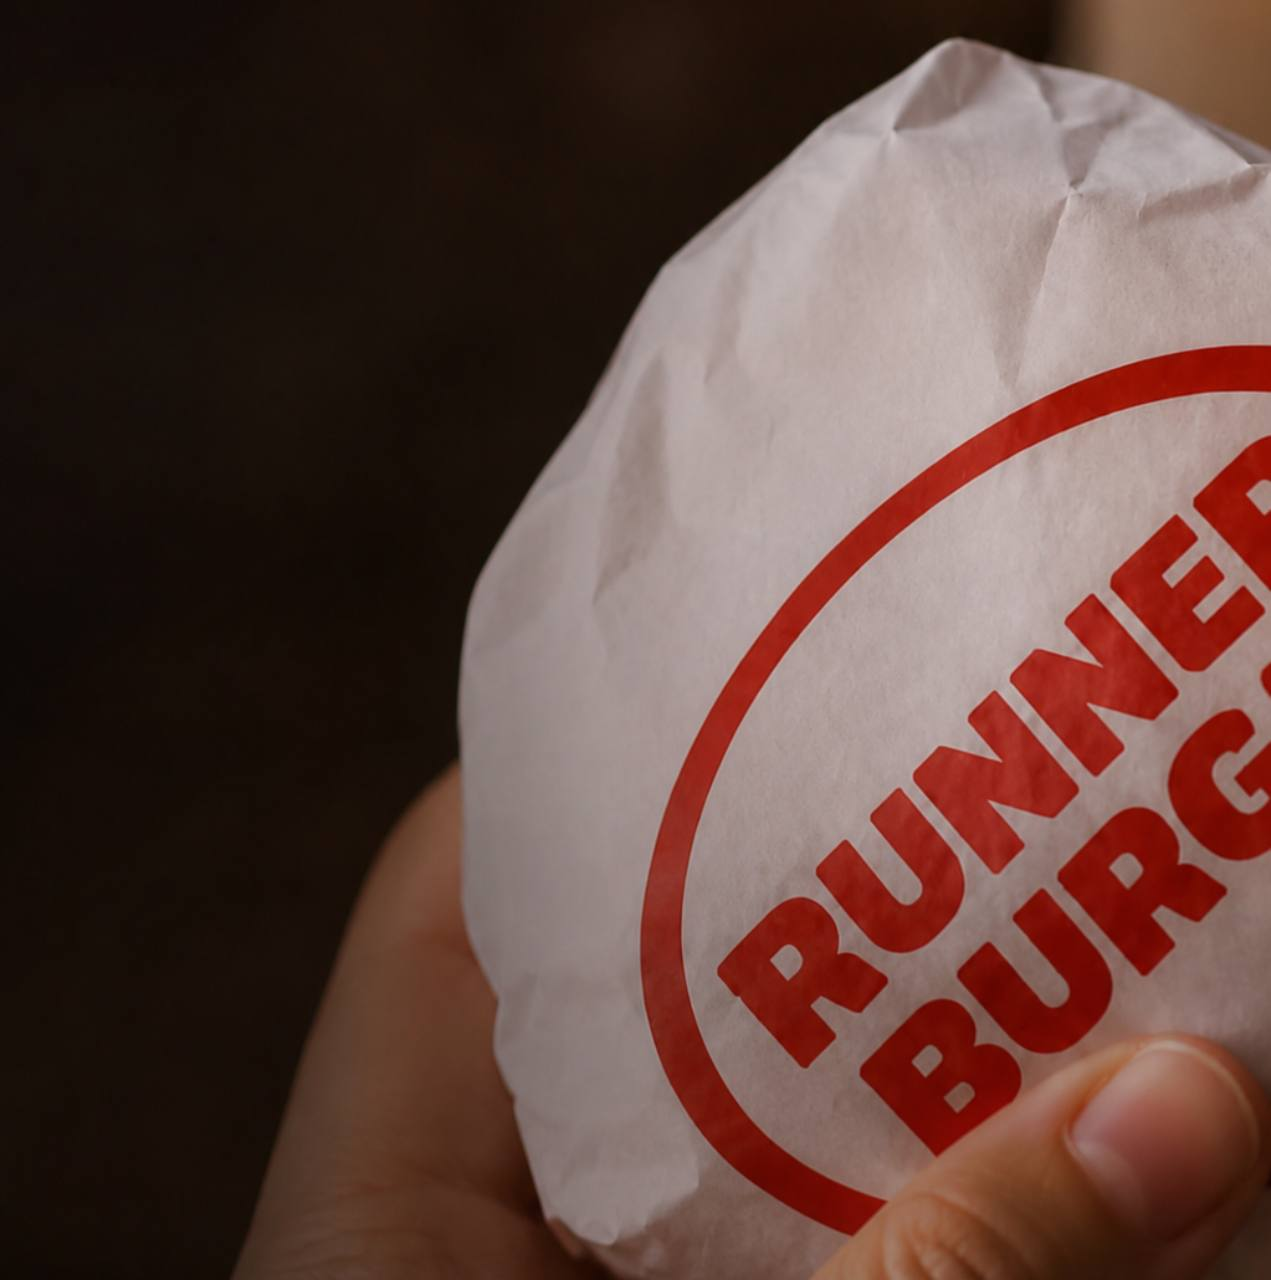
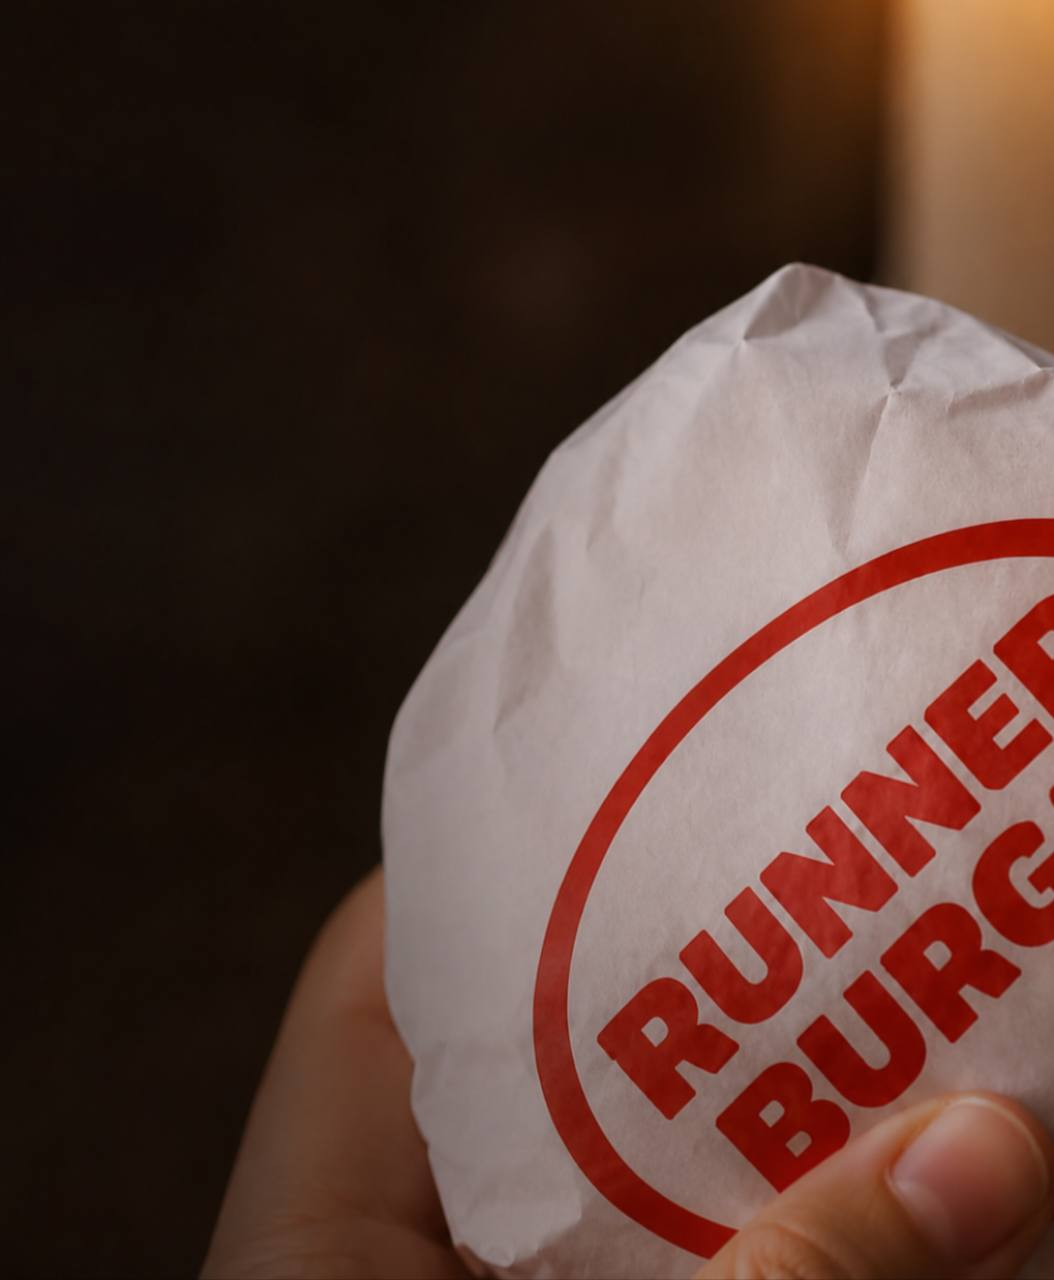
Set hero photo original fit

diff --git a/css/styles.css b/css/styles.css
@@ -188,7 +188,7 @@ a {
 .hero-media img {
   width: min(1023px, 100%);
   height: 100%;
-  object-fit: cover;
+  object-fit: contain;
   object-position: right center;
   transform: none;
 }
